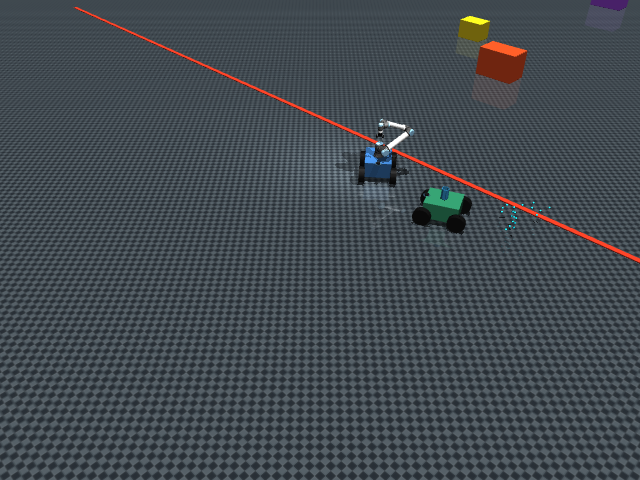
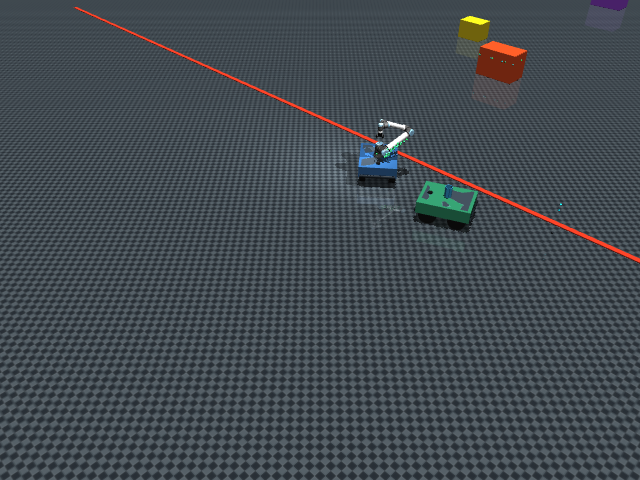
feat: 升级底盘物理参数以匹配企业真实重载车（75kg）并增加视觉外观
按企业参数表重构两辆车（mobile_chassis / car2_chassis）：

物理参数
- 整车 75 kg = 车体 65 kg + 四轮 10 kg
- 外形 0.912 x 0.710 m，离地间隙 0.11 m，顶面 0.40356 m
- 轴距 0.50 m（前轮 X=+0.25，后轮 X=-0.25）
- 轮距 0.555 m（左轮 Y=+0.2775，右轮 Y=-0.2775）
- 轮径 0.305 m（轮心 Z=0.1525）
- 碰撞盒夹在两侧轮胎之间，避免与轮胎穿插

视觉外观（全部 contype=0 conaffinity=0、mass=0）
- 车身外壳 Box 按真实包络
- 前后横向圆柱防撞管
- 顶部安装板（机械臂/雷达底座）
- 雷达托盘与外壳质量归零，避免破坏 75 kg 配比

控制器同步
- WHEEL_TRACK 0.59 -> 0.555，STEER_WHEELBASE 0.585 -> 0.50
- 二号车绿框包络半长/半宽 0.445/0.35 -> 0.456/0.355

验证（seed 0-20，reports/regression.csv）
- 21/21 通过，无翻车、无穿模、无超时
- 视觉误差 8.1-10.0 mm；桶内误差 0.009-0.025 m
- 最小中心距 0.883-1.059 m，车车接触 0；回起点 0.080-0.095 m

已知偏差
- 参数表标注“四轮差速转向”，但去掉转向节后实测原地转仅 0.13 rad/s、
  车体滑移 0.3 m、抓取下探残差 65 mm，任务定位精度不足。
  暂保留前轮转向节作为等效机构，待控制器改成纯差速转向后再移除，XML 内已注明。

Changed region(s): [[0.5312, 0.2812, 0.75, 0.5], [0.7812, 0.4375, 0.8125, 0.4688]]

diff --git a/dual_car_pick_place.py b/dual_car_pick_place.py
@@ -536,7 +536,8 @@ class CarController:
 重要性等级：A"""
         base.DATA.ctrl[self.wheel_act[[0, 2]]] = left
         base.DATA.ctrl[self.wheel_act[[1, 3]]] = right
-        base.DATA.ctrl[self.steer_act] = steer
+        if self.steer_act.size:
+            base.DATA.ctrl[self.steer_act] = steer
 
     def stop_and_settle(
         self,
@@ -997,7 +998,14 @@ class SkidTurnFollower:
             print(
                 f"    [align] t={base.DATA.time - self.start_time:.2f}s "
                 f"yaw={yaw:.3f} err={error:.3f} "
-                f"pos=({pos[0]:.3f}, {pos[1]:.3f}) dir={direction:+.0f}"
+                f"pos=({pos[0]:.3f}, {pos[1]:.3f}) z={pos[2]:.3f} "
+                f"dir={direction:+.0f} "
+                f"wq=["
+                + " ".join(
+                    f"{base.DATA.qvel[base.MODEL.jnt_dofadr[base.MODEL.actuator_trnid[a, 0]]]:+.1f}"
+                    for a in car.wheel_act
+                )
+                + f"] ncon={base.DATA.ncon}"
             )
         # 纯差速原地转：前轮不再转向。实测给前轮 -0.65 rad 反而削弱偏航（1.32 → 0.82 rad/s）。
         car.set_motion(
@@ -2197,8 +2205,8 @@ class DualCarMission:
         car2_pos, car2_yaw = self.car2.pose()
         car1_pose, _ = self.car1.pose()
         car2_y_extent = (
-            abs(np.sin(car2_yaw)) * 0.445
-            + abs(np.cos(car2_yaw)) * 0.35
+            abs(np.sin(car2_yaw)) * 0.456
+            + abs(np.cos(car2_yaw)) * 0.355
         )
         car2_top_edge = float(car2_pos[1] + car2_y_extent)
         car2_outside_frame = car2_top_edge < TARGET_ZONE_Y_MIN

diff --git a/mobile_pick_place.py b/mobile_pick_place.py
@@ -100,14 +100,14 @@ RETRACT_TIME = 2.0
 FINAL_SETTLE_TIME = 2.0
 CHASSIS_SETTLE_TIME = 1.2
 
-# 底盘 P 控制器
+# 底盘 P 控制器（几何与 dual_mobile_ur10e.xml 一致：轮距 0.555 m、轴距 0.50 m）
 WHEEL_RADIUS = 0.1525
-WHEEL_TRACK = 0.59
+WHEEL_TRACK = 0.555
 K_POS = 1.20
 V_MAX = 0.80
 W_MAX = 1.00
 POS_TOL = 0.03
-STEER_WHEELBASE = 0.585
+STEER_WHEELBASE = 0.50
 STEER_MAX = 0.70
 COMMAND_RAMP = 0.12
 YAW_TOL = 0.03
@@ -586,17 +586,18 @@ def set_wheel_velocity(left: float, right: float, steer: float = 0.0) -> None:
 参数：
     left: 左侧两轮角速度指令，单位 rad/s。
     right: 右侧两轮角速度指令，单位 rad/s。
-    steer: 前轮转向角指令，单位 rad。
+    steer: 兼容旧接口的转向角；四轮差速转向模型下被忽略。
 关键参数：
-    前轮也必须保持滚动速度；只转向而把速度设零会触发执行器制动，导致打滑。
+    前轮也必须保持滚动速度；只给转向而不给轮速会让执行器互相制动，导致打滑。
 副作用：
-    写入五个底盘相关执行器。
+    写入四个轮速执行器。
 重要性等级：A"""
     DATA.ctrl[WHEEL_ACT["wheel_fl_joint"]] = left
     DATA.ctrl[WHEEL_ACT["wheel_fr_joint"]] = right
     DATA.ctrl[WHEEL_ACT["wheel_rl_joint"]] = left
     DATA.ctrl[WHEEL_ACT["wheel_rr_joint"]] = right
-    DATA.ctrl[WHEEL_STEER_ACT] = steer
+    if WHEEL_STEER_ACT.size:
+        DATA.ctrl[WHEEL_STEER_ACT] = steer
 
 
 def chassis_pose() -> tuple[np.ndarray, float]:

diff --git a/README.md b/README.md
@@ -22,6 +22,25 @@
 - **任务闭环**：起点出发、长距离避障、并行调度、抓取投放、倒车脱离辐射区、正向精准返航。
 - **迁移友好**：视觉的数据获取与坐标变换层、底盘和机械臂控制层均有明确接口，便于替换为 ROS2 话题和 TF2。
 
+## 底盘模型
+
+两辆车按企业真实重载底盘参数建模（`models/universal_robots_ur10e/dual_mobile_ur10e.xml`）：
+
+| 参数 | 数值 |
+|---|---:|
+| 整车质量（底盘 + 四轮） | `75 kg`（车体 `65 kg` + 四轮 `10 kg`） |
+| 外形尺寸 长×宽×高 | `0.912 × 0.710 × 0.410 m` |
+| 离地间隙 | `0.11 m` |
+| 轴距 | `0.50 m`（前轮 X=`+0.25`，后轮 X=`-0.25`） |
+| 轮距 | `0.555 m`（左轮 Y=`+0.2775`，右轮 Y=`-0.2775`） |
+| 轮径 | `0.305 m`（轮心 Z=`0.1525`） |
+| 顶面（机械臂/雷达安装板） | `z = 0.40356` |
+
+- 物理碰撞体是一个按真实包络定位的 Box（车体 `65 kg`），四轮按真实轴距/轮距布置，各 `2.5 kg`。
+- 纯外观件（车身外壳、前后防撞管、顶部安装板、雷达托盘）全部 `contype="0" conaffinity="0"`、`mass="0"`，不参与物理。
+- 已知偏差：参数表标注"四轮差速转向"，但控制器运动学使用前轮转向角；去掉转向节后实测原地转仅 `0.13 rad/s` 且车体滑移 `0.3 m`，任务定位精度不足，因此暂保留前轮转向节作为等效机构，待控制器改为纯差速转向后再移除。
+- 机械臂模型（Menagerie UR10e）自身约 `33.8 kg`，因此一号车整机仿真质量约 `108.8 kg`（真实 75 kg 底盘 + UR10e + 夹爪）。
+
 ## 环境要求
 
 - Python 3.10+
@@ -120,11 +139,11 @@ D:\Python313\python.exe .\scripts\run_matrix.py --seeds 0-20
 `seed 0–20`（21 个）当前基线：
 
 - 通过率：`21/21`
-- D435i 视觉坐标误差：`8.2 ~ 10.1 mm`
-- 桶内 XY 误差：`0.005 ~ 0.022 m`（容差 `0.05 m`）
-- 两车最小中心距：`0.878 ~ 1.063 m`（安全阈值 `0.82 m`），物理接触 `0`
-- 回起点误差：CAR1 `0.085 ~ 0.086 m`，CAR2 `0.079 ~ 0.099 m`（阈值 `0.20 m`）
-- 单次仿真时长：`51.9 ~ 68.0 s`
+- D435i 视觉坐标误差：`8.1 ~ 10.0 mm`
+- 桶内 XY 误差：`0.009 ~ 0.025 m`（容差 `0.05 m`）
+- 两车最小中心距：`0.883 ~ 1.059 m`（安全阈值 `0.82 m`），物理接触 `0`
+- 回起点误差：CAR1 `0.083 ~ 0.091 m`，CAR2 `0.080 ~ 0.095 m`（阈值 `0.20 m`）
+- 单次仿真时长：`51.6 ~ 54.9 s`
 
 ## 跨平台路径
 
